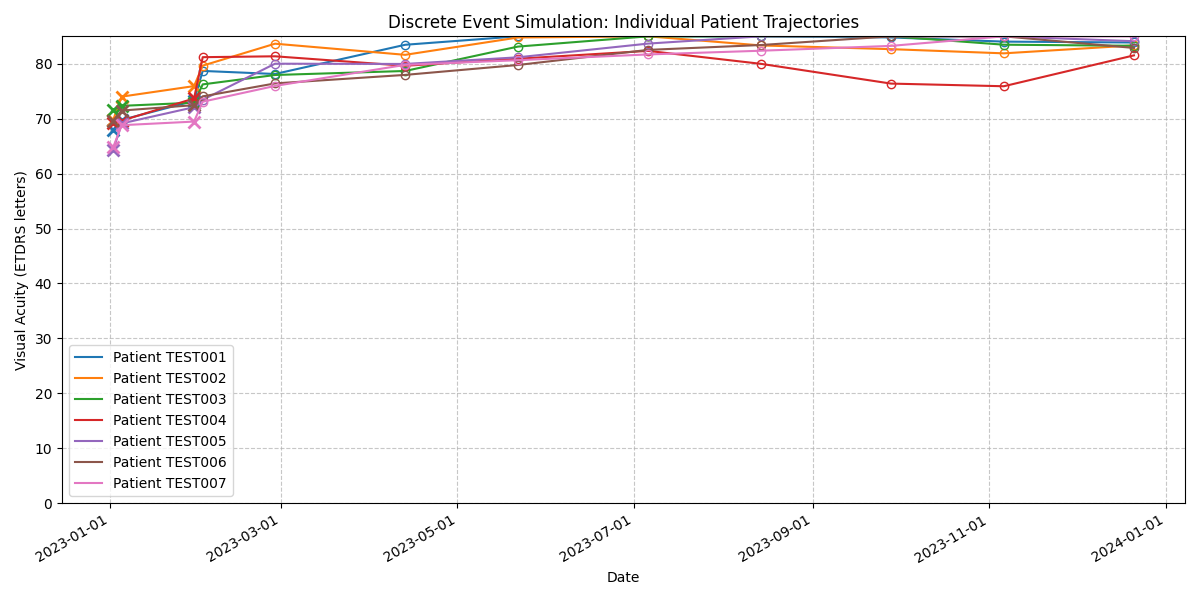
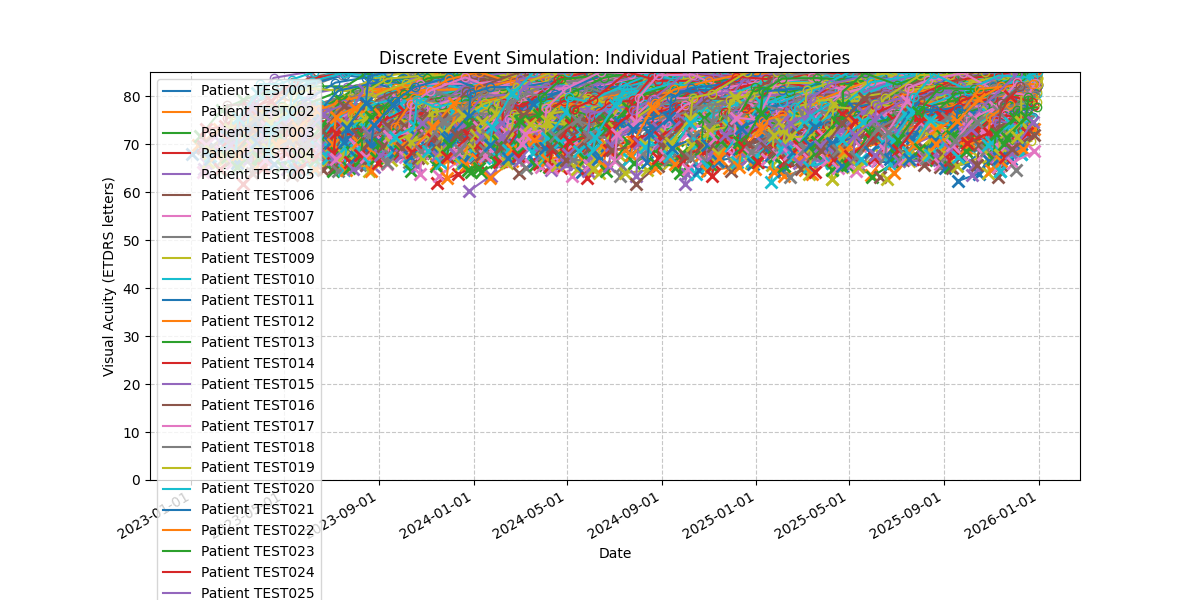
Implement patient generator with Poisson process
- Add PatientGenerator class using exponential inter-arrival times
- Update simulation to trickle in ~3 patients/week
- Fix end date handling in event scheduling
- Update test simulation to handle gradual patient addition
- Add generated plot files showing patient trajectories

diff --git a/simulation/des.py b/simulation/des.py
@@ -1,9 +1,57 @@
 from datetime import datetime, timedelta
-from typing import Dict, List, Optional
+from typing import Dict, List, Optional, Tuple
 import numpy as np
 from .base import BaseSimulation, Event, SimulationEnvironment
 from protocol_models import TreatmentProtocol
 from .config import SimulationConfig
+
+class PatientGenerator:
+    """Generates patient arrival times using a Poisson process"""
+    def __init__(self, rate_per_week: float, start_date: datetime, end_date: datetime, random_seed: Optional[int] = None):
+        """
+        Args:
+            rate_per_week: Average number of new patients per week
+            start_date: Start date for patient generation
+            end_date: End date for patient generation
+            random_seed: Optional random seed for reproducibility
+        """
+        self.rate_per_week = rate_per_week
+        self.start_date = start_date
+        self.end_date = end_date
+        self.total_weeks = (end_date - start_date).days / 7
+        
+        # Initialize random state
+        if random_seed is not None:
+            self.rng = np.random.RandomState(random_seed)
+        else:
+            self.rng = np.random
+            
+    def generate_arrival_times(self) -> List[Tuple[datetime, int]]:
+        """Generate arrival times for all patients using a Poisson process
+        
+        Returns:
+            List of (arrival_time, patient_number) tuples
+        """
+        # Calculate expected total patients
+        expected_patients = int(self.rate_per_week * self.total_weeks)
+        
+        # Generate inter-arrival times from exponential distribution
+        mean_interarrival_days = 7 / self.rate_per_week  # Convert weekly rate to daily
+        interarrival_times = self.rng.exponential(mean_interarrival_days, size=expected_patients)
+        
+        # Convert to arrival times
+        arrival_times = []
+        current_time = self.start_date
+        patient_num = 1
+        
+        for interval in interarrival_times:
+            current_time += timedelta(days=interval)
+            if current_time >= self.end_date:
+                break
+            arrival_times.append((current_time, patient_num))
+            patient_num += 1
+            
+        return arrival_times
 
 class DiscreteEventSimulation(BaseSimulation):
     """
@@ -44,6 +92,43 @@ class DiscreteEventSimulation(BaseSimulation):
         
         # Track daily appointments
         self.daily_slots = {}  # date -> number of appointments
+        
+        # Initialize patient generator
+        patient_gen_params = des_params["patient_generation"]
+        self.patient_generator = PatientGenerator(
+            rate_per_week=patient_gen_params["rate_per_week"],
+            start_date=config.start_date,
+            end_date=config.start_date + timedelta(days=config.duration_days),
+            random_seed=patient_gen_params["random_seed"] or config.random_seed
+        )
+    
+    def _schedule_patient_arrivals(self):
+        """Schedule patient arrival events based on generator"""
+        arrival_times = self.patient_generator.generate_arrival_times()
+        for arrival_time, patient_num in arrival_times:
+            patient_id = f"TEST{patient_num:03d}"
+            self.clock.schedule_event(Event(
+                time=arrival_time,
+                event_type="add_patient",
+                patient_id=patient_id,
+                data={"protocol_name": "test_simulation"},
+                priority=1
+            ))
+    
+    def process_event(self, event: Event):
+        """Process different event types in the simulation"""
+        if event.event_type == "visit":
+            self._handle_visit(event)
+        elif event.event_type == "treatment_decision":
+            self._handle_treatment_decision(event)
+        elif event.event_type == "add_patient":
+            self._handle_add_patient(event)
+    
+    def _handle_add_patient(self, event: Event):
+        """Handle patient arrival events"""
+        patient_id = event.patient_id
+        protocol_name = event.data["protocol_name"]
+        self.add_patient(patient_id, protocol_name)
     
     def add_patient(self, patient_id: str, protocol_name: str):
         """Initialize a new patient in the simulation"""
@@ -85,13 +170,6 @@ class DiscreteEventSimulation(BaseSimulation):
             data=initial_visit,
             priority=1
         ))
-    
-    def process_event(self, event: Event):
-        """Process different event types in the simulation"""
-        if event.event_type == "visit":
-            self._handle_visit(event)
-        elif event.event_type == "treatment_decision":
-            self._handle_treatment_decision(event)
     
     def _handle_visit(self, event: Event):
         """Handle patient visit events using protocol objects"""
@@ -243,7 +321,7 @@ class DiscreteEventSimulation(BaseSimulation):
             next_interval = 52
             
         # Only schedule next visit if we haven't reached the end date
-        if event.time + timedelta(weeks=next_interval) <= self.config.start_date + timedelta(days=self.config.duration_days):
+        if event.time + timedelta(weeks=next_interval) <= self.clock.end_date:
             self._schedule_next_visit(patient_id, next_interval)
 
     def _request_resources(self, event: Event) -> bool:
@@ -393,11 +471,8 @@ class DiscreteEventSimulation(BaseSimulation):
 
     def _reschedule_visit(self, event: Event, next_clinic_day: bool = False):
         """Reschedule a visit to the next available day"""
-        # Calculate the intended end date of the simulation
-        intended_end_date = self.config.start_date + timedelta(days=self.config.duration_days)
-        
-        # If the original event time is already past the intended duration, don't reschedule
-        if event.time >= intended_end_date:
+        # If the original event time is already past the end date, don't reschedule
+        if event.time >= self.clock.end_date:
             return
             
         # Calculate next available day
@@ -424,7 +499,7 @@ class DiscreteEventSimulation(BaseSimulation):
             
         # If next day is full, try the following days
         while (self.daily_slots[next_date] >= self.global_stats["scheduling"]["daily_capacity"] and 
-               next_time <= intended_end_date):
+               next_time <= self.clock.end_date):
             next_time += timedelta(days=1)
             while next_time.weekday() >= self.global_stats["scheduling"]["days_per_week"]:
                 next_time += timedelta(days=1)
@@ -433,7 +508,7 @@ class DiscreteEventSimulation(BaseSimulation):
                 self.daily_slots[next_date] = 0
                 
         # Only reschedule if we haven't reached the end date and found a day with capacity
-        if next_time <= intended_end_date:
+        if next_time <= self.clock.end_date:
             self.global_stats["scheduling"]["rescheduled_visits"] += 1
             self.clock.schedule_event(Event(
                 time=next_time,

diff --git a/test_des_simulation.py b/test_des_simulation.py
@@ -25,14 +25,14 @@ def run_test_des_simulation(config: Optional[SimulationConfig] = None, verbose: 
         if verbose:
             logger.info("Initializing DES simulation...")
         
-        # Initialize simulation and set end date before adding patients
+        # Initialize simulation
         sim = DiscreteEventSimulation(config, start_date)
-        sim.clock.end_date = end_date  # Set end date first
         
-        # Add test patients after end date is set
-        for i in range(1, 8):  # Create patients TEST001 through TEST007
-            patient_id = f"TEST{i:03d}"
-            sim.add_patient(patient_id, "test_simulation")  # Use the protocol type from YAML
+        # Set end date and initialize patient generation
+        sim.clock.end_date = end_date
+        if verbose:
+            logger.info("Patient generation configured for 3 patients per week on average")
+        sim._schedule_patient_arrivals()  # Schedule patients after end date is set
         
         # Run simulation
         if verbose:
@@ -57,22 +57,15 @@ def run_test_des_simulation(config: Optional[SimulationConfig] = None, verbose: 
                 else:
                     print(f"{stat}: {value}")
                 
-            # Print patient timelines
-            print("\nPatient Timelines:")
-            for patient_id, history in patient_histories.items():
-                visits = [
-                    {'date': visit['date'], 'actions': visit['actions']} 
-                    for visit in history
-                ]
-                print_patient_timeline(patient_id, visits, start_date, end_date)
-            
-            # Print patient states
-            print("\nFinal Patient States:")
+            # Print summary statistics
+            print("\nPatient Summary:")
             print("-" * 20)
-            for patient_id, state in sim.patient_states.items():
-                print(f"\nPatient {patient_id}:")
-                for key, value in state.items():
-                    print(f"  {key}: {value}")
+            total_patients = len(patient_histories)
+            total_visits = sum(len(history) for history in patient_histories.values())
+            avg_visits = total_visits / total_patients
+            print(f"Total Patients: {total_patients}")
+            print(f"Total Visits: {total_visits}")
+            print(f"Average Visits per Patient: {avg_visits:.1f}")
         
         # Generate acuity plots if enabled in config
         if config.get_output_params().get("plots", False):
